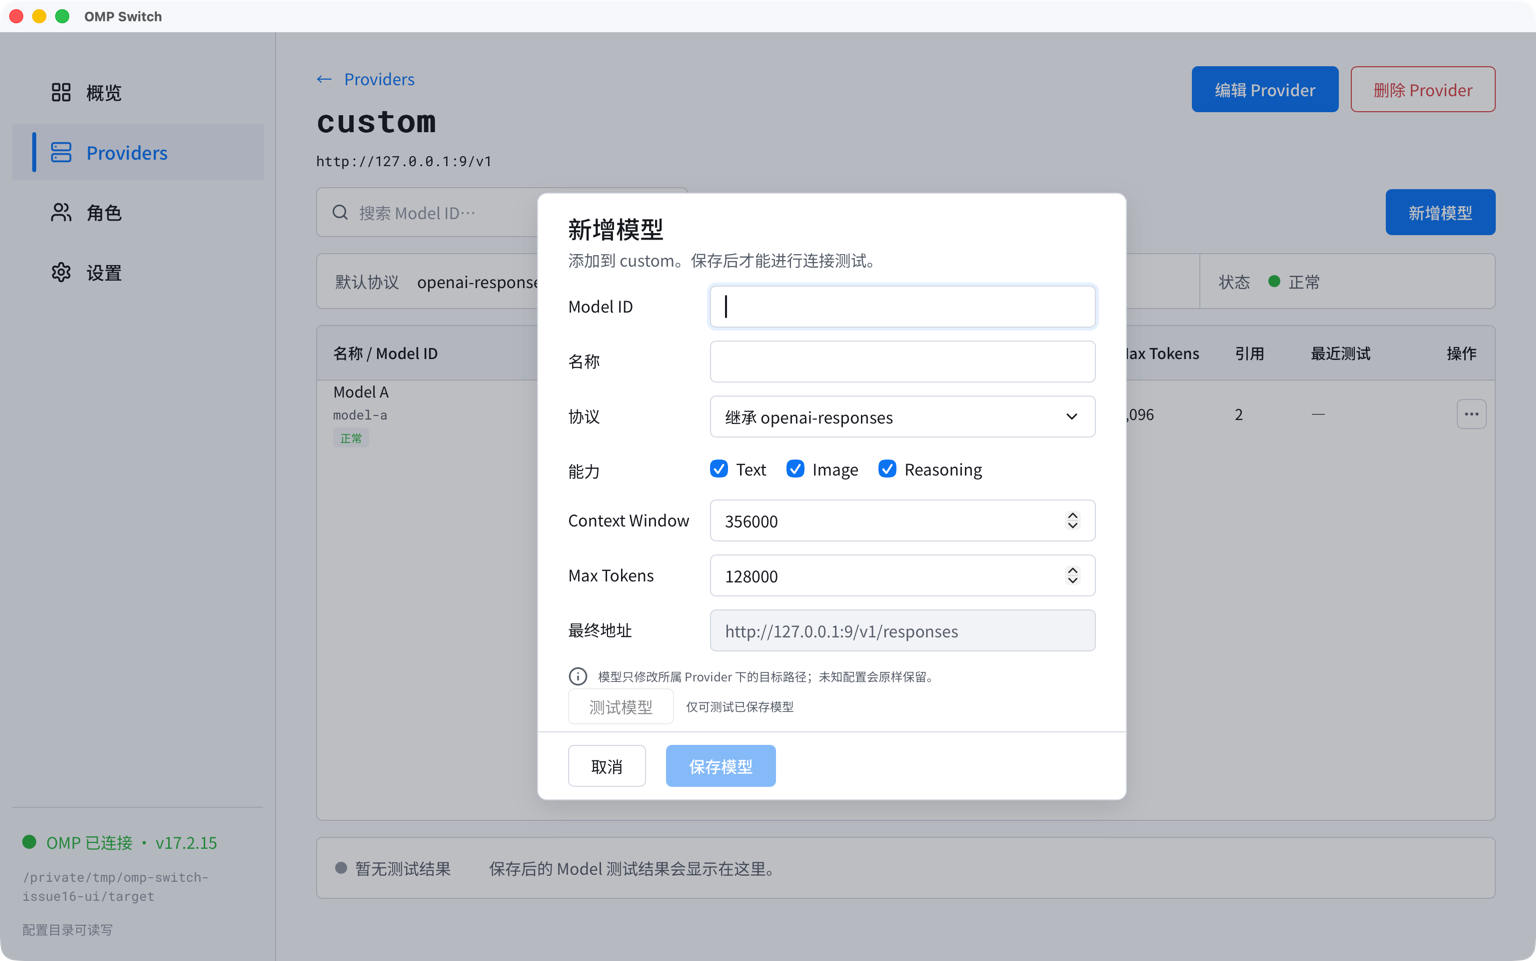
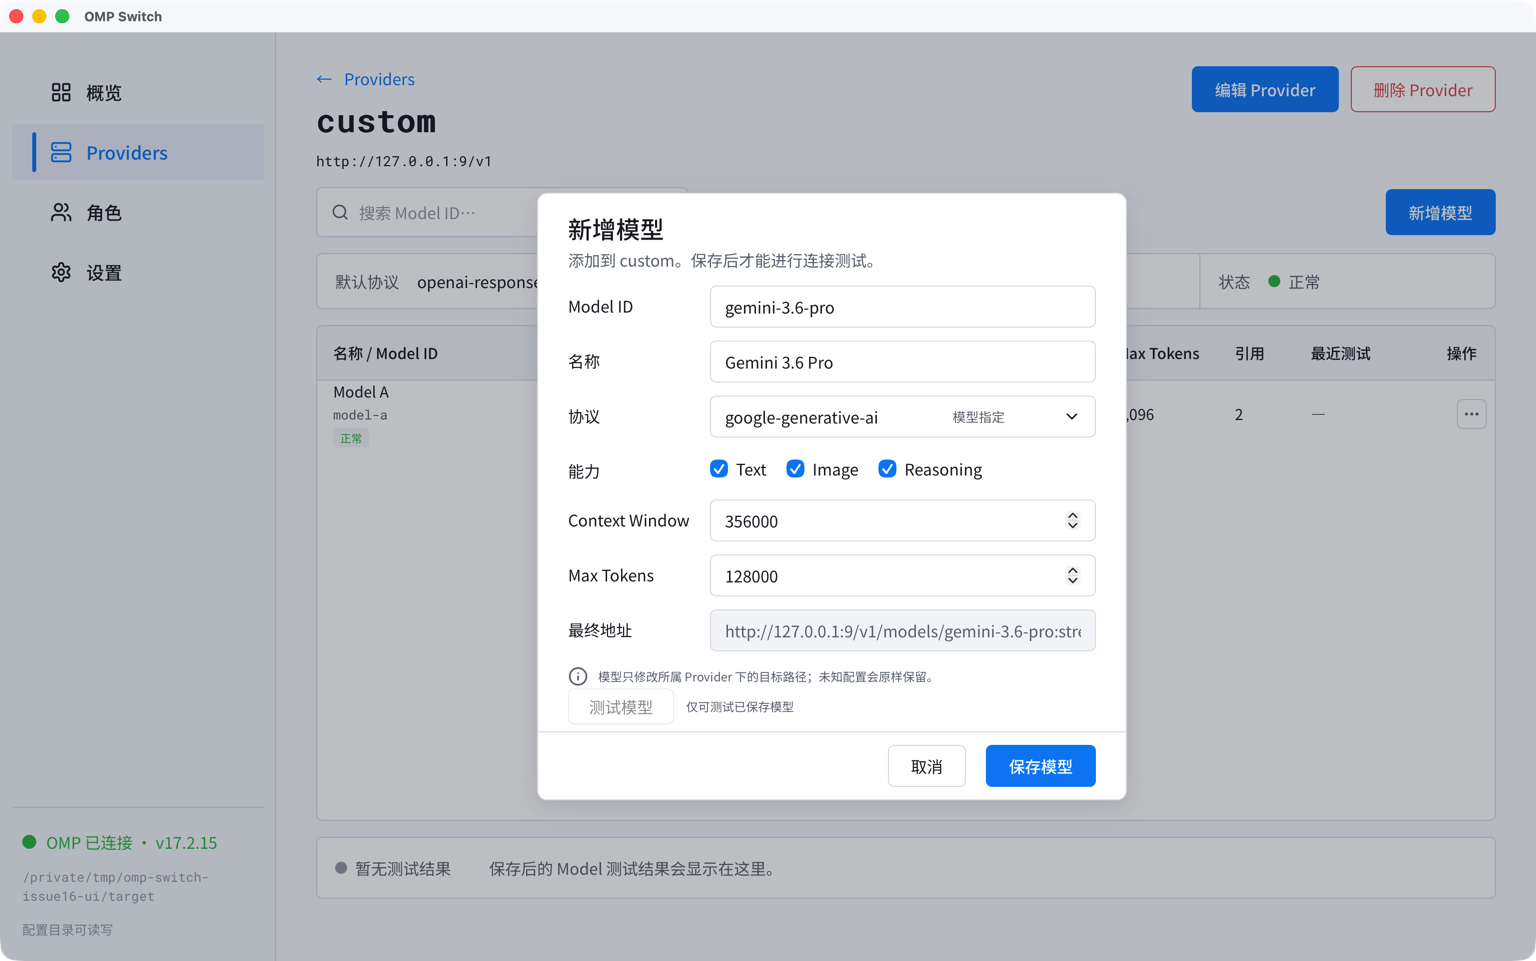
fix: close issue 16 visual and platform blockers

diff --git a/src/styles/app.css b/src/styles/app.css
@@ -363,7 +363,7 @@ a { color: inherit; text-decoration: none; }
 .provider-create-dialog--wizard-model { left: calc(50% + 96px); width: min(752px, calc(100vw - 48px)); height: min(740px, calc(100vh - 48px)); max-height: calc(100vh - 48px); }
 .model-create-sheet { left: calc(50% + 64px); width: min(590px, calc(100vw - 48px)); height: min(608px, calc(100vh - 48px)); max-height: calc(100vh - 48px); }
 .provider-create-dialog--wizard-model .provider-create-form__body { padding: 28px 30px 12px; }
-.provider-create-dialog--wizard-model .provider-create-heading { gap: 4px; }
+.provider-create-dialog--wizard-model .provider-create-heading { gap: 12px; }
 .provider-create-dialog--wizard-model .provider-create-heading h2 { font-size: 24px; }
 .provider-create-dialog--wizard-model .provider-create-fields { margin-top: 14px; }
 .provider-create-dialog--wizard-model .provider-create-field, .provider-create-dialog--wizard-model .provider-create-capabilities { grid-template-columns: 186px minmax(0, 1fr); gap: 20px; }
@@ -371,8 +371,6 @@ a { color: inherit; text-decoration: none; }
 .provider-create-dialog--wizard-model .provider-create-field > label { padding-top: 8px; }
 .provider-create-dialog--wizard-model .provider-create-field-error { min-height: 12px; margin: 1px 0 0; font-size: 11px; line-height: 12px; }
 .provider-create-dialog--wizard-model .provider-create-capabilities > div { min-height: 36px; }
-.provider-create-dialog--wizard-model .provider-create-footer .app-button { min-height: 42px; }
-.provider-create-dialog--wizard-model .provider-create-footer { min-height: 68px; padding: 10px 30px; }
 .provider-create-dialog--wizard-model .provider-create-capabilities { position: relative; display: block; padding-left: 206px; }
 .provider-create-dialog--wizard-model .provider-create-capabilities legend { position: absolute; top: 0; left: 0; padding-top: 8px; }
 .provider-create-form { height: 100%; display: grid; grid-template-rows: minmax(0, 1fr) auto; }
@@ -412,7 +410,7 @@ a { color: inherit; text-decoration: none; }
 .provider-create-security-note svg, .provider-create-model-note svg, .provider-create-model-readonly-note svg { flex: 0 0 auto; width: 20px; height: 20px; }
 .provider-create-model-readonly-note { margin-top: 8px; color: var(--color-warning); }
 .provider-create-footer { min-height: 90px; display: flex; align-items: center; justify-content: space-between; gap: 18px; padding: 20px 30px; border-top: 1px solid var(--color-border); background: var(--color-bg-surface); }
-.provider-create-footer__actions { display: flex; justify-content: flex-end; gap: 20px; }
+.provider-create-footer__actions { display: flex; justify-content: flex-end; gap: 20px; margin-left: auto; }
 .provider-create-footer .app-button { min-height: 46px; padding-inline: 22px; }
 .model-create-sheet .provider-create-form__body { padding: 20px 30px 12px; }
 .model-create-sheet .provider-create-fields { margin-top: 14px; }

diff --git a/vite.config.ts b/vite.config.ts
@@ -15,5 +15,6 @@ export default defineConfig({
     environment: "jsdom",
     setupFiles: "./src/test/setup.ts",
     css: true,
+    testTimeout: 30000,
   },
 });

diff --git a/docs/release.md b/docs/release.md
@@ -69,7 +69,7 @@ React page seam 使用真实 routed pages、可访问控件和 typed Tauri clien
 - `W7copJ`：Settings
 - `N3OTR` / `r67daM`：Foundations / Components
 
-Provider 创建两步和 Model Create Sheet 使用对应 `.pen` 状态；issue #16 的原生截图分别位于 `.artifacts/issue-16/provider-create-step1-tauri-1536x961.png`、`.artifacts/issue-16/provider-create-step2-tauri-1536x961.png` 和 `.artifacts/issue-16/model-create-sheet-tauri-1536x961.png`，Retina 原件以 `*-tauri-retina.png` 保留；逐页比较记录位于 `.artifacts/issue-16/visual-comparison.txt`。未批准的肉眼可见差异不能通过文档豁免。
+Provider 创建两步和 Model Create Sheet 必须使用对应 `.pen` 的已填写可提交状态：Step 1 的 Provider ID、Base URL、API Key 已填且“下一步”可用；Step 2 的 Model ID、名称已填、最终地址已解析且“创建 Provider”可用；Model Sheet 的 Model ID、名称、显式协议已填且“保存模型”可用。issue #16 的 1536×961 原生截图分别位于 `.artifacts/issue-16/provider-create-step1-tauri-1536x961.png`、`.artifacts/issue-16/provider-create-step2-tauri-1536x961.png` 和 `.artifacts/issue-16/model-create-sheet-tauri-1536x961.png`，3072×1922 Retina 原件以 `*-tauri-retina.png` 保留；逐页比较记录位于 `.artifacts/issue-16/visual-comparison.txt`。未批准的肉眼可见差异不能通过文档豁免。
 
 ## 发布命令
 
